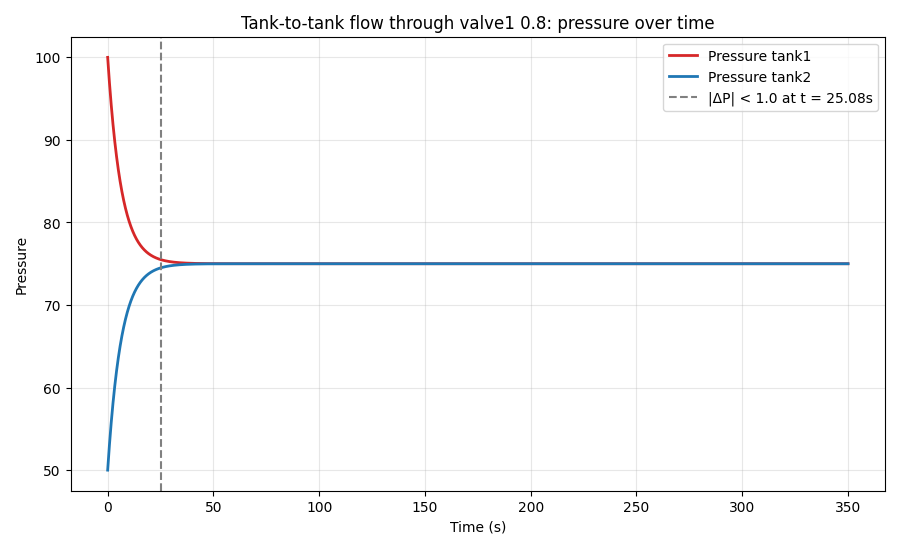
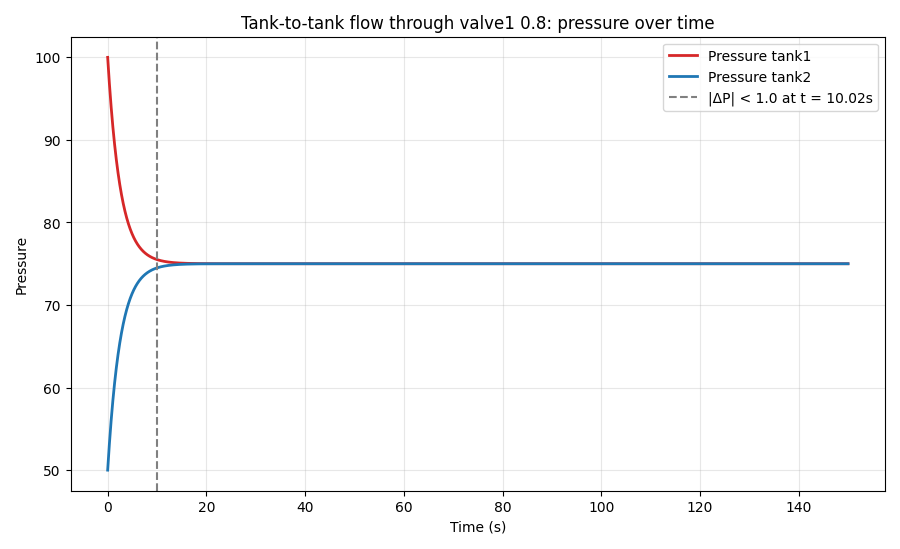
Minor fix

diff --git a/Usefull_materials/plot.py b/Usefull_materials/plot.py
@@ -25,8 +25,8 @@ import matplotlib.pyplot as plt
 # ---------------------------------------------------------------------
 # Initial state / constants (from the problem file)
 # ---------------------------------------------------------------------
-valve_opening = 0.1
-flow_coefficient = 0.002
+valve_opening = 0.8
+flow_coefficient = 0.005
 R_ammonia = 8.314
 
 P1_0 = 100.0     # pressure tank1
@@ -43,7 +43,7 @@ T2 = 293.0       # temperature tank2 (assumed constant)
 # Simulation settings
 # ---------------------------------------------------------------------
 dt = 0.01        # integration time step
-t_max = 350.0   # safety cap on simulated time
+t_max = 150.0   # safety cap on simulated time
 
 # ---------------------------------------------------------------------
 # Euler integration of the process's continuous effects
@@ -114,7 +114,7 @@ else:
 
 ax.set_xlabel("Time (s)")
 ax.set_ylabel("Pressure")
-ax.set_title("Tank-to-tank flow through valve1 0.1: pressure over time")
+ax.set_title("Tank-to-tank flow through valve1 0.8: pressure over time")
 ax.grid(True, alpha=0.3)
 ax.legend()
 

diff --git a/README.md b/README.md
@@ -14,9 +14,11 @@ The domain represents a robot performing maintenance on the exterior of an orbit
 
 Every maintenance task follows the same logical sequence:
 ```
-Observe symptoms    ➝    Run diagnostic tests    ➝    Confirm the fault    ➝    Repair    ➝    Verify
+Observe symptoms    ➝    Run diagnostic tests    ➝    Confirm the fault    ➝    Repair    ➝   Verify
 ```
 Verification is mandatory after every repair. The robot never simply assumes a fix worked, it has to re-test the component and confirm it has actually returned to a healthy state.
+
+The scenario is based on a real problem happened in 2010. During the STS-131 mission, a critical valve on a newly installed ammonia coolant tank got stuck in the closed position, which compromised half of the International Space Station's thermal cooling capabilities. Because of the severity of the malfunction, NASA heavily considered adding an unplanned fourth spacewalk (EVA) and extending the shuttle's mission to manually fix the issue.
 
 ## Domain Objects
 
@@ -161,6 +163,24 @@ PDDL+ doesn't solve differential equations directly, so Q2 approximates real phy
 | Diagnosis only | Diagnosis + physical simulation |
 | Discrete movement | Continuous movement |
 | No autonomous evolution | Processes and events change the world independently |
+
+## Technical discussion
+**Limitations of Classical PDDL**
+Classical PDDL assumes a fully observable world, making it unsuitable for realistic diagnosis. The predicates `possible_fault`, `confirmed_fault`, and `shows` simulate uncertainty, but the true fault is still explicitly encoded in the problem definition rather than hidden from the planner. Classical PDDL also lacks support for exogenous events, whereas PDDL+ allows faults and physical processes to evolve autonomously without planner intervention.
+
+**Diagnostic action Vs  goal-achieving actions**
+| | *Diagnostic actions* (`run_test`-style, `confirm_fault`, `rule_out_fault`) | *Goal-achieving / repair actions* (`open_valve`, `mechanical_recovery`, `start_lub_recovery`, `verify_repair`) |
+| --- | --- | --- |
+| Effect on physical world | None, they only add/remove conceptual predicates | Change actual component state |
+| Purpose | Reduce uncertainty / narrow hypothesis space | Move the world toward the goal |
+| Preconditions | Depend on symptoms already observed, not on the true fault | Gated by `confirmed_fault` |
+| Reversibility | Effectively monotonic — knowledge only accumulates | Physically consequential and sometimes constrained (e.g. can't `open_valve` if a movement-preventing fault is possible) |
+
+**Fault Progression and Planning Urgency**
+Fault progression introduces urgency because continuous processes can drive the system toward irreversible failure. For example, pressure equalisation caused by a stuck valve eventually triggers a failure event that ends the mission. Consequently, the planner must complete diagnosis, repair, and verification before these critical thresholds are reached, making time an essential planning resource.
+
+**Toward a POMDP-Based Model**
+A natural extension is to model diagnosis as a POMDP, replacing symbolic fault predicates with a probabilistic belief state over possible faults. Observations would become noisy rather than deterministic, continuous fault progression could be stochastic, and repair actions could have uncertain outcomes. Instead of producing a single plan, the planner would compute a policy that balances information gathering, repair costs, and the risk of failure under uncertainty.
 
 ## Conclusion
 